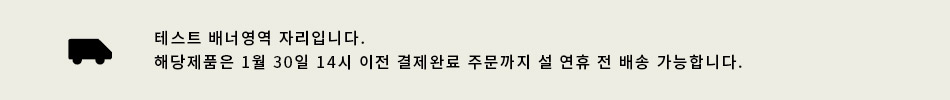
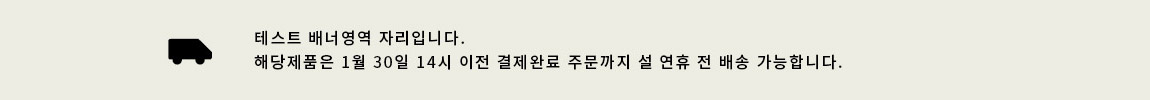
adi_frt_pdp 최종일걸?

Changed region(s): [[0.0611, 0.3, 0.7937, 0.72]]

diff --git a/front/html/adidas/detail.html b/front/html/adidas/detail.html
@@ -4147,7 +4147,7 @@
 							2. buy_box 클래스에 buy_box_restock 클래스가 붙을 경우 출시예정/품절 모드로 변경
 							-->
 
-							<div class="buy_box buy_box_restock">
+							<div class="buy_box">
 								<div class="inner">
 									<div class="rating">
 										<div class="rating-star">
@@ -4180,7 +4180,7 @@
 									</div>
 									<!-- //price -->
 
-									<!-- 190917 기존배너 그대로 사용 -->
+									<!-- 190917 배너 위치1 -->
 									<div class="super_week_ban">
 										<a href="javascript:void(0)"><img
 											src="/images/adidas/order/pdp_bann_test_mini.jpg" alt=""></a>
@@ -4434,10 +4434,10 @@
 					-->
 					<div class="product-description">
 						<div class="ct1150">
-							<!-- 190925 미확정 배너 자리 -->
-							<!-- <div class="super_week_ban" style="margin: 0 0 30px;">
+							<!-- 190925 배너 위치2 : 이 위치의 배너는 인라인스타일이 있습니다.-->
+							<div class="super_week_ban" style="margin-bottom: 100px;">
 								<a href="javascript:void(0)"><img src="/images/adidas/order/pdp_bann_test.jpg" alt=""></a>
-							</div> -->
+							</div>
 
 							<div class="prd_title">
 								<p class="ctgr">Men's Originals</p>

diff --git a/front/css/adidas/adidas_r.css b/front/css/adidas/adidas_r.css
@@ -17034,6 +17034,7 @@ div.search_fail .sch_failbox2 #new_prodlist .banner_list .banner_slide{width:100
 .product-main.pdp_renew .super_week_ban{
 	position: relative;
     margin: 20px 0;
+    /* margin-bottom: 100px; */
 	text-align: center;
 }
 .product-main.pdp_renew .super_week_ban a{
